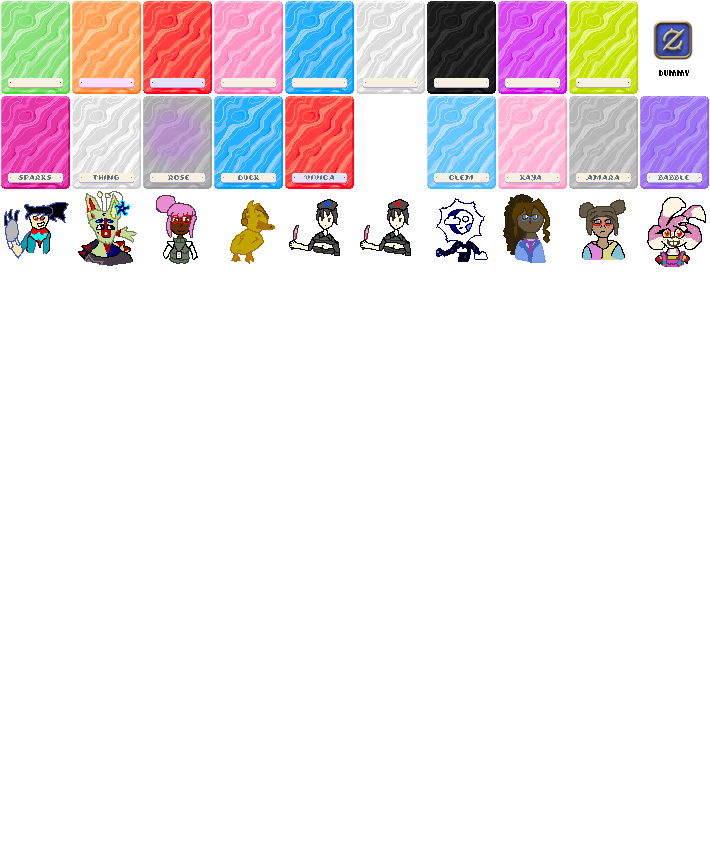
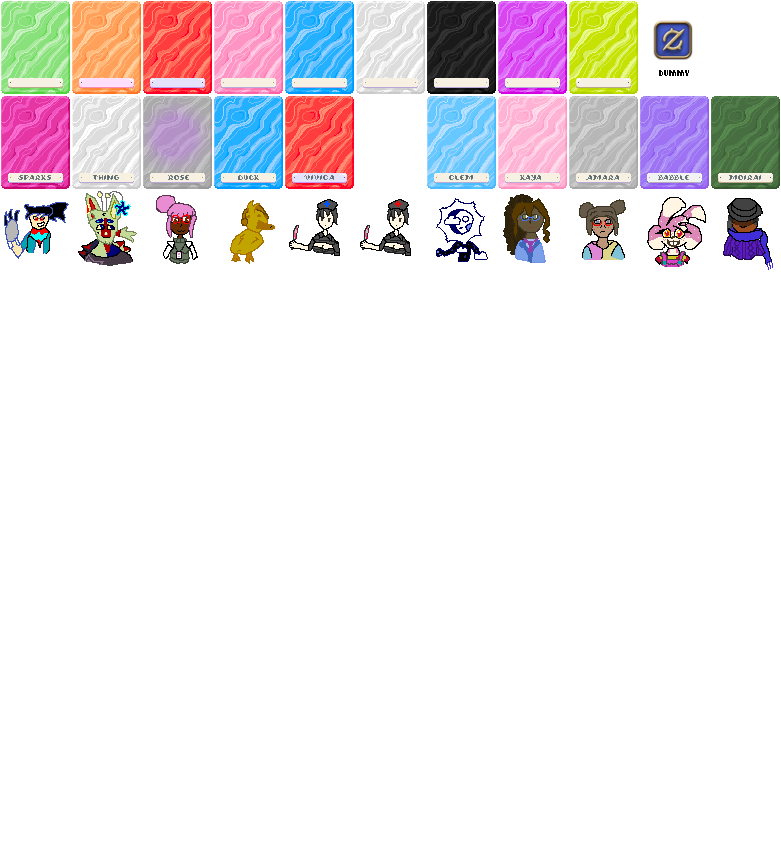
ten.

Changed region(s): [[0.0, 0.0, 1.0, 0.3345]]

diff --git a/CREDITS.md b/CREDITS.md
@@ -1,17 +1,20 @@
 <del>also a convenient reference for me when i submit the attack, because i will definitely forget</del>
 
+If your character's on here and you want anything updated just lmk
+
 ## 2026
 ### Team Mystery
-- [Rosé](https://artfight.net/character/4731699.rose-fleur)
+- [Moirai](https://artfight.net/character/9418100.moirai-the-gravekeeper) by [artsyGeek](https://artfight.net/~artsyGeek)
+- [Rosé](https://artfight.net/character/4731699.rose-fleur) by [projectpurr](https://artfight.net/~projectpurr)
 
 ### Team Tragedy
-- [Amara](https://artfight.net/character/6646403.amara-bisan-desta-oc)
-- [Clementine](https://artfight.net/character/8221064.clementine-tadc) 
-- [Kaya](https://artfight.net/character/10862985.kaya)
-- [Thing](https://artfight.net/character/7492531.thing)
-- [Vivica](https://artfight.net/character/8517500.vivica)
+- [Amara](https://artfight.net/character/6646403.amara-bisan-desta-oc) by [marisa](https://artfight.net/~marisa)
+- [Clementine](https://artfight.net/character/8221064.clementine-tadc) by [nightlightyyy](https://artfight.net/~nightlightyyy)
+- [Kaya](https://artfight.net/character/10862985.kaya) by [Beeeenoz](https://artfight.net/~Beeeenoz)
+- [Thing](https://artfight.net/character/7492531.thing) by [RabAlienThing](https://artfight.net/~RabAlienThing)
+- [Vivica](https://artfight.net/character/8517500.vivica) by [mikufanclub](https://artfight.net/~mikufanclub)
 
 ### Team Comedy
-- [Babble](https://artfight.net/character/10134520.babble-the-rabbit)
-- [Duck](https://artfight.net/character/9698669.rubber-ducky) <!-- Check if he should be scored as a simple design -->
-- [Sparks](https://artfight.net/character/10281494.looker-sparks-sheperd)
+- [Babble](https://artfight.net/character/10134520.babble-the-rabbit) by [babblerabbit](https://artfight.net/~babblerabbit)
+- [Duck](https://artfight.net/character/9698669.rubber-ducky) by [Technically_no](https://artfight.net/~Technically_no)
+- [Sparks](https://artfight.net/character/10281494.looker-sparks-sheperd) by [SpoxxieRuckus](https://artfight.net/~SpoxxieRuckus)
